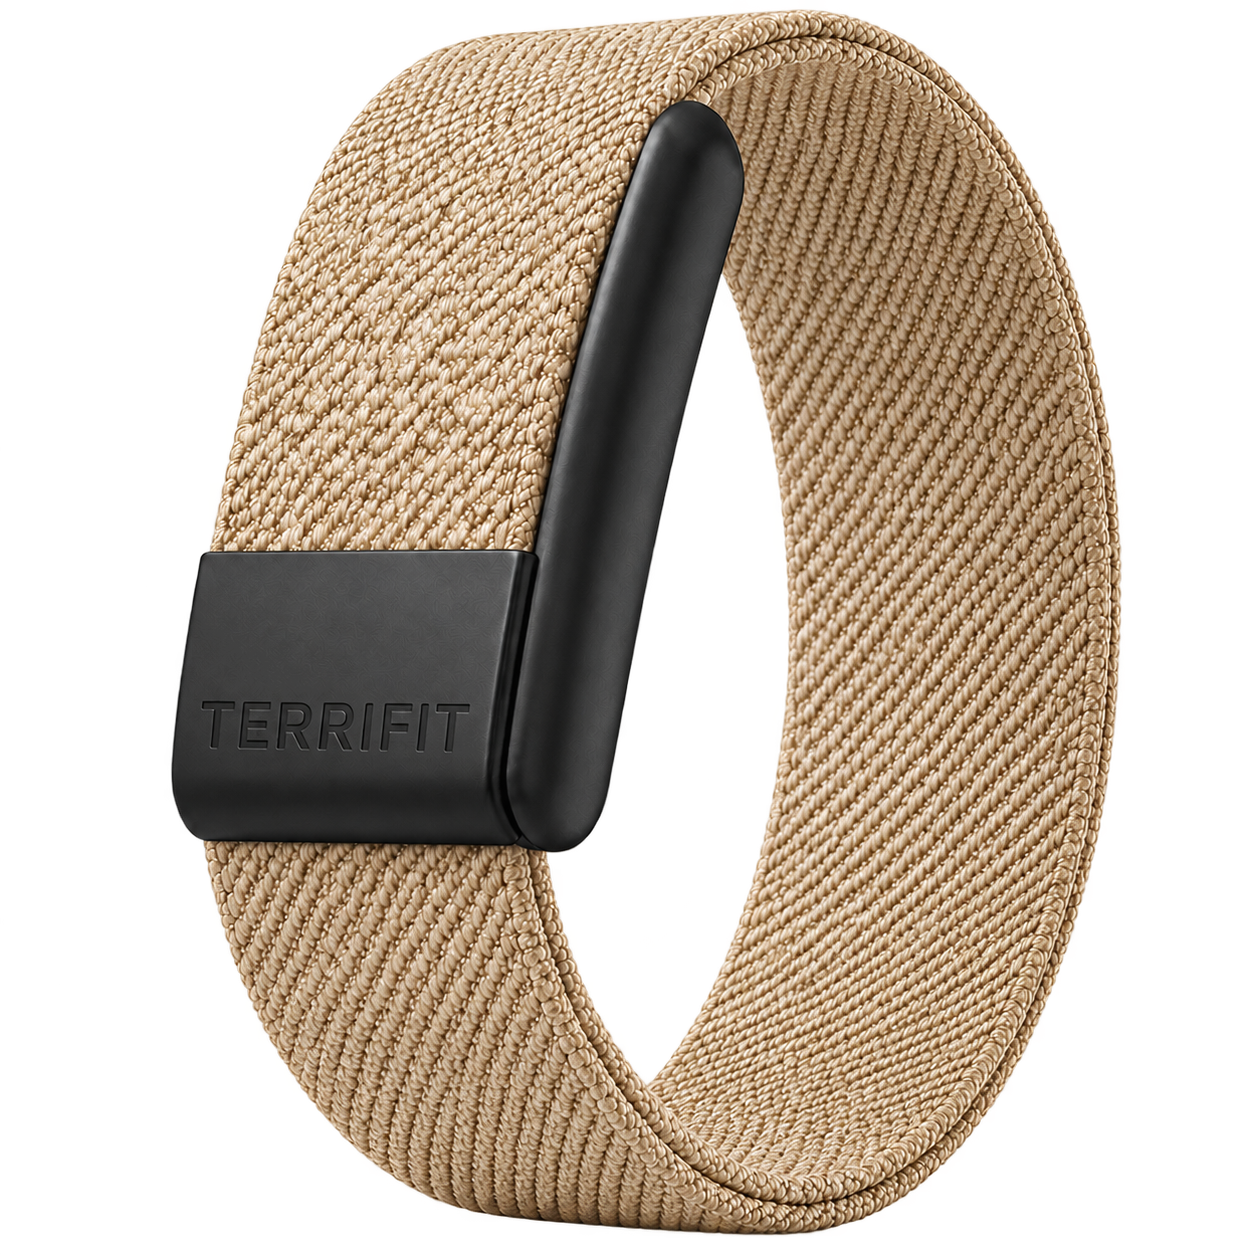
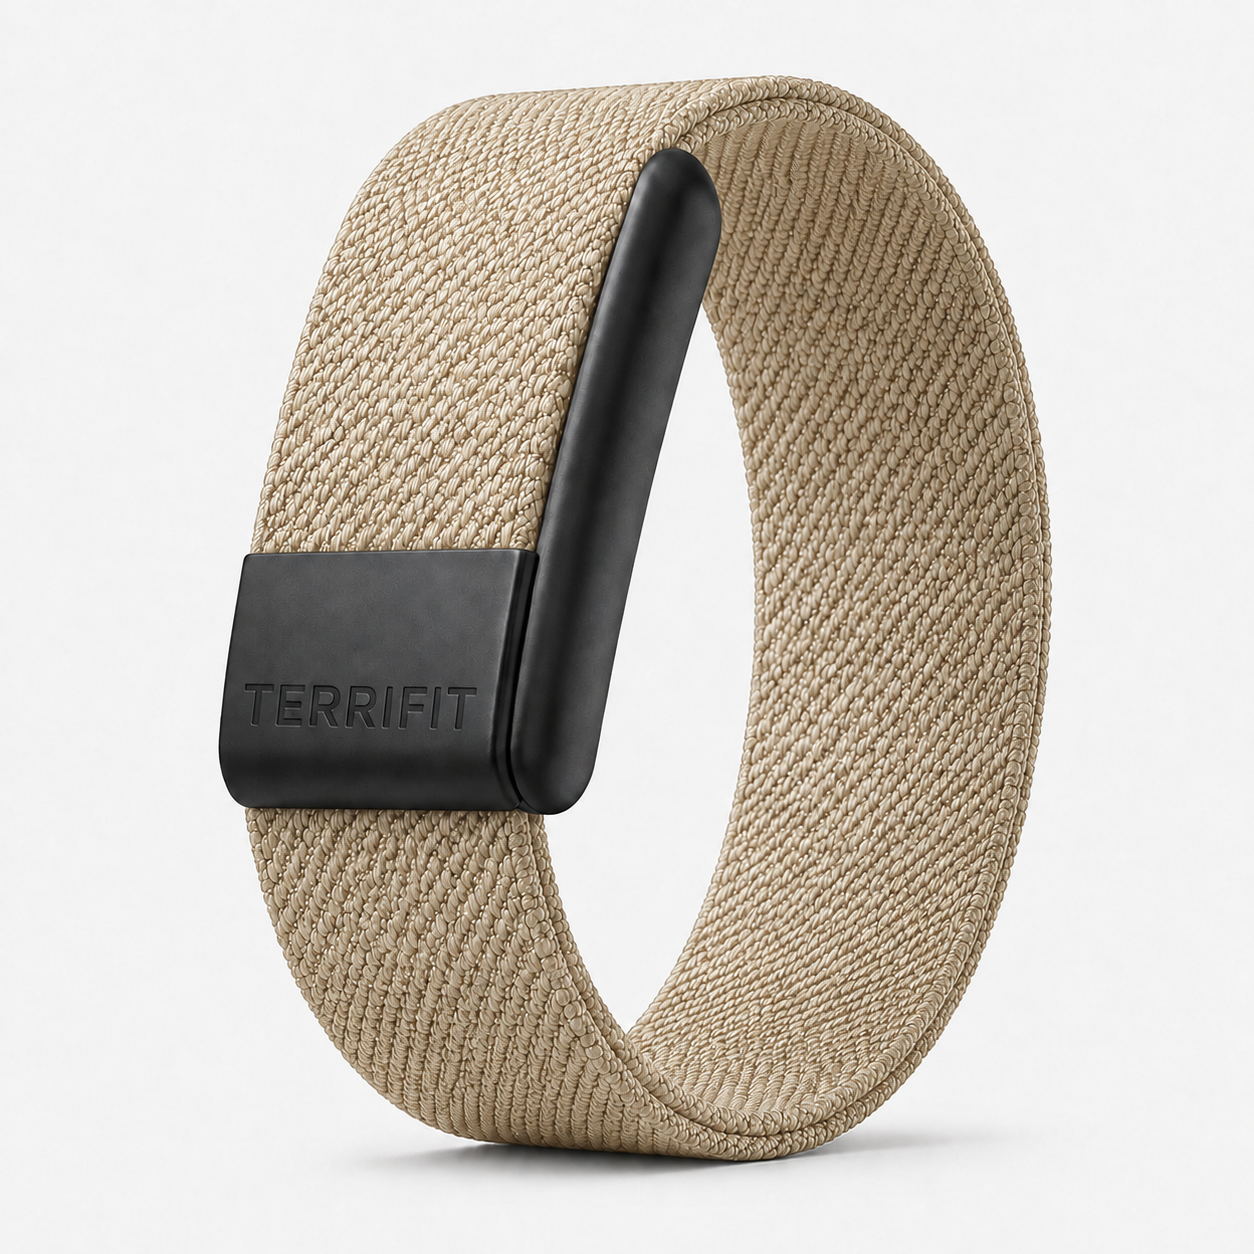
feat: update DigitalOcean deployment configuration and add new media assets

diff --git a/docs/PROJECT-LOG.md b/docs/PROJECT-LOG.md
@@ -289,3 +289,28 @@ Set up the automatic project log. Records session work via a Claude Code Stop ho
 - **other** — `.do/`, `.github/`
 
 <sub>Recorded automatically from session. Add the reasoning with `node scripts/project-log.mjs --note "…"`.</sub>
+
+## 2026-09-07 · 09:45
+
+**Committed** `34d9ede` on `main` — feat: add DigitalOcean deployment workflow and app specification
+
+**Reverted or committed** — 2 files no longer differ from HEAD
+
+<sub>Recorded automatically from commit. Add the reasoning with `node scripts/project-log.mjs --note "…"`.</sub>
+
+## 2026-09-07 · 09:48
+
+**Working tree** — 1 file · +20 −5
+
+- **other** — `.do/app.yaml`
+
+<sub>Recorded automatically from session. Add the reasoning with `node scripts/project-log.mjs --note "…"`.</sub>
+
+## 2026-09-07 · 09:52
+
+**Working tree** — 3 files · +35 −5
+
+- **other** — `.github/workflows/deploy-digitalocean.yml`
+- **media** — `public/media/band/colourways-v2/sandstone.png`, `public/media/band/colourways-v2/terrifit-band-stone.png`
+
+<sub>Recorded automatically from session. Add the reasoning with `node scripts/project-log.mjs --note "…"`.</sub>
